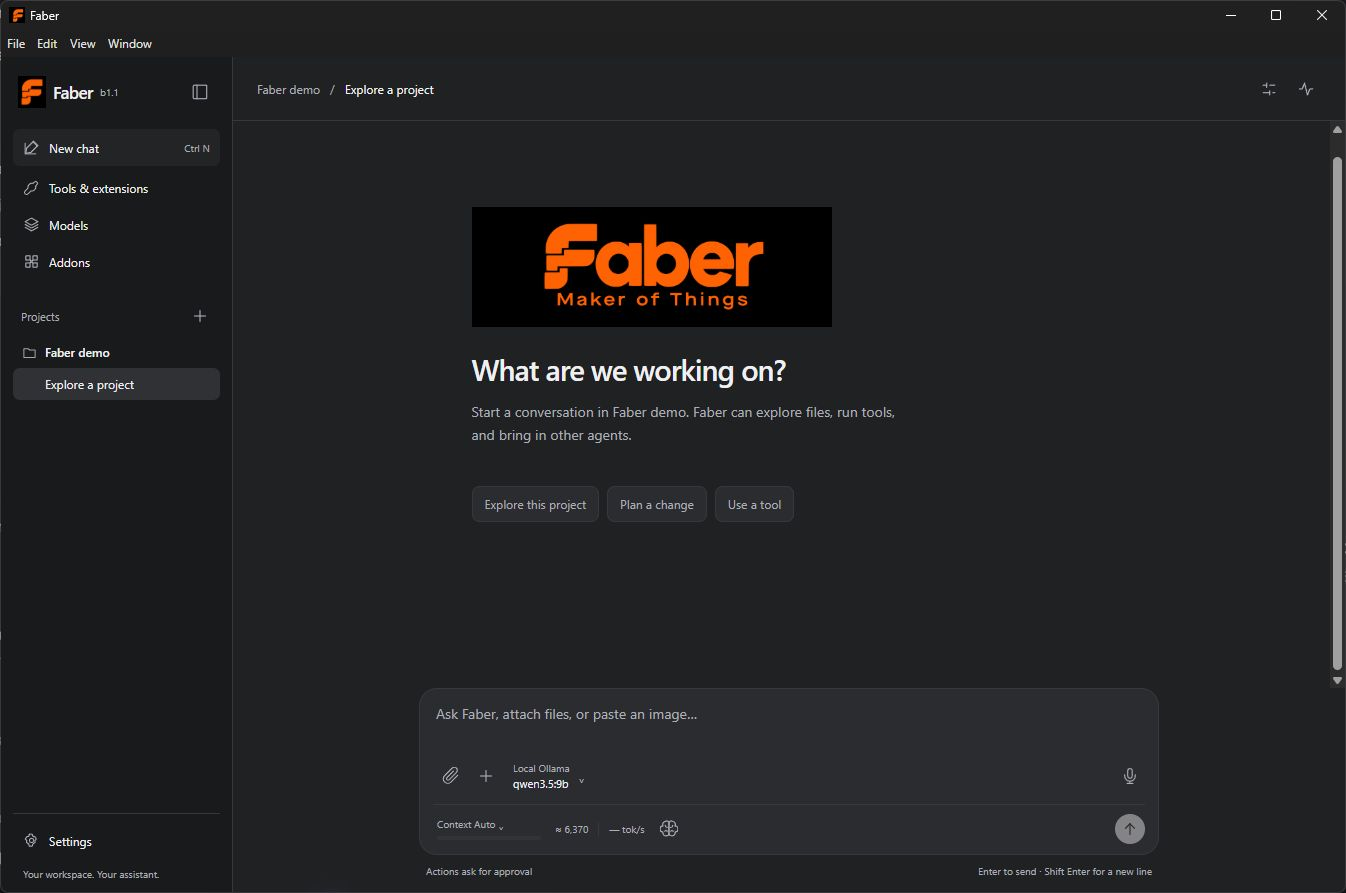
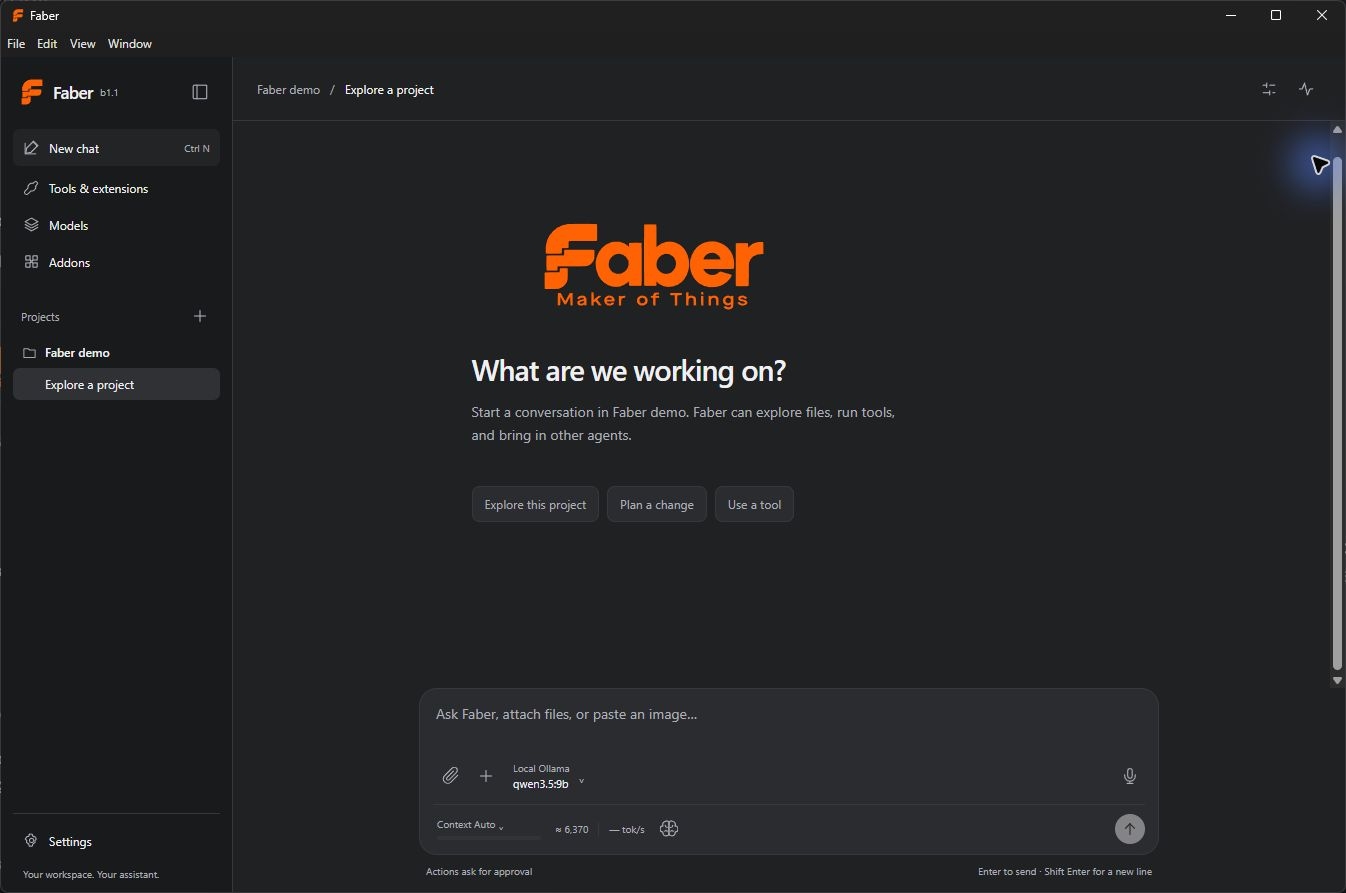
fix: use transparent SVG branding in b1.1

diff --git a/test/fixtures/b1.1-original-branding.css b/test/fixtures/b1.1-original-branding.css
@@ -1,0 +1,7 @@
+.build-label{font-size:10px;color:var(--muted);align-self:center}.brand-row{gap:7px}.brand-mark{font-family:Georgia,serif;font-style:italic;font-weight:700}.addon-imports{display:flex;gap:8px;flex-wrap:wrap;margin:18px 0}#addons-status{overflow-wrap:anywhere}.addon-item{padding:20px 0;border-top:1px solid var(--line)}.addon-title{display:flex;justify-content:space-between;align-items:baseline;gap:15px}.addon-title h3{font-size:15px;margin-bottom:8px}.addon-status{font-size:11px;color:var(--accent);margin-bottom:9px}.addon-details{font-size:12px}.addon-details summary{cursor:pointer;margin:12px 0;color:var(--muted)}.addon-details p{overflow-wrap:anywhere}.addon-empty{padding:26px 0}.addon-item .form-actions{justify-content:flex-start}
+.brand-mark.faber-symbol{width:28px;height:33px;object-fit:contain;border:0;border-radius:0;flex-shrink:0}.faber-wordmark{display:block;height:auto;max-width:100%;object-fit:contain;background:#000}.welcome-wordmark{width:360px;margin:0 0 24px}.about-wordmark{width:520px;margin:0 0 22px}
+.addon-notices:not(:empty){border-left:2px solid var(--accent);padding:1px 12px;margin:16px 0}.addon-notices p:last-child{margin-bottom:0}.addon-title h3{min-width:0;overflow-wrap:anywhere}.addon-item p,.addon-notices p{overflow-wrap:anywhere}
+.hardware-controls{margin-top:16px;border-top:1px solid var(--line);padding-top:13px}.hardware-controls>summary,.hardware-cpus>summary{cursor:pointer;font-size:12px;color:var(--muted)}.hardware-controls>.hint{margin-top:12px}.hardware-form{border:0;padding:0;display:grid;gap:14px;margin:12px 0}.hardware-form:disabled{opacity:.6}.hardware-devices h4{font-size:11px;color:var(--muted);font-weight:500;margin:0 0 9px}.hardware-check{display:flex;align-items:flex-start;gap:8px;font-size:11px;line-height:1.7;margin:6px 0}.hardware-check input{accent-color:var(--accent);margin-top:4px;flex:none}.hardware-cpu-grid{display:grid;grid-template-columns:repeat(auto-fill,minmax(85px,1fr));gap:2px 10px;max-height:150px;overflow:auto}.hardware-observed{border-top:1px solid var(--line);padding-top:13px;margin-top:14px;font-size:11px}.hardware-observed p{white-space:pre-wrap;overflow-wrap:anywhere}
+.model-columns{display:block;overflow:auto}.model-results{display:grid;grid-template-columns:repeat(auto-fill,minmax(235px,1fr));gap:14px;padding:18px 0;overflow:visible;max-height:none}.model-result{display:flex;flex-direction:column;align-items:stretch;justify-content:flex-start;min-height:195px;border:1px solid var(--line);border-radius:12px;background:var(--surface);padding:18px;text-align:left;gap:0}.model-result .model-repo{font-size:14px;margin-bottom:8px}.model-result .model-metrics{margin-top:auto;padding-top:12px}.model-result .model-tags{margin-bottom:5px}.model-result[aria-pressed=true]{border-color:var(--accent);box-shadow:none}.model-columns.has-detail{display:grid;grid-template-columns:minmax(235px,.8fr) minmax(360px,1.2fr);overflow:hidden}.model-columns.has-detail .model-results{display:flex;flex-direction:column;overflow:auto;padding:18px 18px 18px 0}.model-columns.has-detail .model-result{flex-shrink:0;min-height:180px}.model-columns.has-detail .model-detail{padding-top:15px}.model-card-grid{display:grid;grid-template-columns:repeat(auto-fill,minmax(240px,1fr));gap:14px;margin:18px 0 25px}.library-model-card,.library-model-card.model-job{border:1px solid var(--line);border-radius:12px;padding:16px;background:var(--surface);min-width:0;display:flex;flex-direction:column}.model-card-main{display:flex;flex-direction:column;align-items:stretch;text-align:left;gap:8px;flex:1;padding:0 0 10px;min-width:0}.model-card-main[aria-pressed=true] .model-repo{color:var(--accent)}.model-card-main .model-tags{margin:0;white-space:normal;overflow-wrap:anywhere}.model-card-size{font-size:13px;color:var(--text);line-height:1.5}.model-card-reason{margin:8px 0 0;overflow-wrap:anywhere}.model-card-reason:empty{display:none}.model-card-transfer{flex-wrap:wrap;gap:6px;font-size:10px}.library-model-card .form-actions{justify-content:flex-start;margin-top:14px}.library-model-card .button{font-size:11px;padding:7px 10px}.disk-model-detail{padding:22px;border:1px solid var(--line);border-radius:12px;margin-bottom:22px}.disk-model-detail .model-metrics{margin:18px 0}.disk-library .model-library-heading{align-items:flex-start}.disk-library .model-library-heading p{overflow-wrap:anywhere}.model-transfer-history{border-top:1px solid var(--line);margin-top:20px;padding-top:16px}.model-transfer-history>summary{cursor:pointer;font-size:12px;color:var(--muted);margin-bottom:14px}.library-empty{grid-column:1/-1;padding:22px 0}
+@media(max-width:850px){.model-columns.has-detail{grid-template-columns:minmax(200px,.75fr) minmax(300px,1.25fr)}.model-card-grid{grid-template-columns:repeat(auto-fill,minmax(210px,1fr))}}
+@media(max-width:700px){.model-columns.has-detail{display:block;overflow:visible}.model-columns.has-detail .model-results{display:grid;max-height:260px;padding-right:0;overflow:auto}.model-result{min-height:175px}.model-columns.has-detail .model-detail{padding-left:0}.model-card-grid{grid-template-columns:1fr}.disk-model-detail{padding:16px}.disk-library .model-library-heading{flex-direction:column;gap:9px}}

diff --git a/renderer/faber.css b/renderer/faber.css
@@ -1,5 +1,5 @@
 .build-label{font-size:10px;color:var(--muted);align-self:center}.brand-row{gap:7px}.brand-mark{font-family:Georgia,serif;font-style:italic;font-weight:700}.addon-imports{display:flex;gap:8px;flex-wrap:wrap;margin:18px 0}#addons-status{overflow-wrap:anywhere}.addon-item{padding:20px 0;border-top:1px solid var(--line)}.addon-title{display:flex;justify-content:space-between;align-items:baseline;gap:15px}.addon-title h3{font-size:15px;margin-bottom:8px}.addon-status{font-size:11px;color:var(--accent);margin-bottom:9px}.addon-details{font-size:12px}.addon-details summary{cursor:pointer;margin:12px 0;color:var(--muted)}.addon-details p{overflow-wrap:anywhere}.addon-empty{padding:26px 0}.addon-item .form-actions{justify-content:flex-start}
-.brand-mark.faber-symbol{width:28px;height:33px;object-fit:contain;border:0;border-radius:0;flex-shrink:0}.faber-wordmark{display:block;height:auto;max-width:100%;object-fit:contain;background:#000}.welcome-wordmark{width:360px;margin:0 0 24px}.about-wordmark{width:520px;margin:0 0 22px}
+.brand-mark.faber-symbol{width:28px;height:33px;object-fit:contain;border:0;border-radius:0;flex-shrink:0}.faber-wordmark{display:block;height:auto;max-width:100%;object-fit:contain}.welcome-wordmark{width:360px;margin:0 0 24px}.about-wordmark{width:520px;margin:0 0 22px}
 .addon-notices:not(:empty){border-left:2px solid var(--accent);padding:1px 12px;margin:16px 0}.addon-notices p:last-child{margin-bottom:0}.addon-title h3{min-width:0;overflow-wrap:anywhere}.addon-item p,.addon-notices p{overflow-wrap:anywhere}
 .hardware-controls{margin-top:16px;border-top:1px solid var(--line);padding-top:13px}.hardware-controls>summary,.hardware-cpus>summary{cursor:pointer;font-size:12px;color:var(--muted)}.hardware-controls>.hint{margin-top:12px}.hardware-form{border:0;padding:0;display:grid;gap:14px;margin:12px 0}.hardware-form:disabled{opacity:.6}.hardware-devices h4{font-size:11px;color:var(--muted);font-weight:500;margin:0 0 9px}.hardware-check{display:flex;align-items:flex-start;gap:8px;font-size:11px;line-height:1.7;margin:6px 0}.hardware-check input{accent-color:var(--accent);margin-top:4px;flex:none}.hardware-cpu-grid{display:grid;grid-template-columns:repeat(auto-fill,minmax(85px,1fr));gap:2px 10px;max-height:150px;overflow:auto}.hardware-observed{border-top:1px solid var(--line);padding-top:13px;margin-top:14px;font-size:11px}.hardware-observed p{white-space:pre-wrap;overflow-wrap:anywhere}
 .model-columns{display:block;overflow:auto}.model-results{display:grid;grid-template-columns:repeat(auto-fill,minmax(235px,1fr));gap:14px;padding:18px 0;overflow:visible;max-height:none}.model-result{display:flex;flex-direction:column;align-items:stretch;justify-content:flex-start;min-height:195px;border:1px solid var(--line);border-radius:12px;background:var(--surface);padding:18px;text-align:left;gap:0}.model-result .model-repo{font-size:14px;margin-bottom:8px}.model-result .model-metrics{margin-top:auto;padding-top:12px}.model-result .model-tags{margin-bottom:5px}.model-result[aria-pressed=true]{border-color:var(--accent);box-shadow:none}.model-columns.has-detail{display:grid;grid-template-columns:minmax(235px,.8fr) minmax(360px,1.2fr);overflow:hidden}.model-columns.has-detail .model-results{display:flex;flex-direction:column;overflow:auto;padding:18px 18px 18px 0}.model-columns.has-detail .model-result{flex-shrink:0;min-height:180px}.model-columns.has-detail .model-detail{padding-top:15px}.model-card-grid{display:grid;grid-template-columns:repeat(auto-fill,minmax(240px,1fr));gap:14px;margin:18px 0 25px}.library-model-card,.library-model-card.model-job{border:1px solid var(--line);border-radius:12px;padding:16px;background:var(--surface);min-width:0;display:flex;flex-direction:column}.model-card-main{display:flex;flex-direction:column;align-items:stretch;text-align:left;gap:8px;flex:1;padding:0 0 10px;min-width:0}.model-card-main[aria-pressed=true] .model-repo{color:var(--accent)}.model-card-main .model-tags{margin:0;white-space:normal;overflow-wrap:anywhere}.model-card-size{font-size:13px;color:var(--text);line-height:1.5}.model-card-reason{margin:8px 0 0;overflow-wrap:anywhere}.model-card-reason:empty{display:none}.model-card-transfer{flex-wrap:wrap;gap:6px;font-size:10px}.library-model-card .form-actions{justify-content:flex-start;margin-top:14px}.library-model-card .button{font-size:11px;padding:7px 10px}.disk-model-detail{padding:22px;border:1px solid var(--line);border-radius:12px;margin-bottom:22px}.disk-model-detail .model-metrics{margin:18px 0}.disk-library .model-library-heading{align-items:flex-start}.disk-library .model-library-heading p{overflow-wrap:anywhere}.model-transfer-history{border-top:1px solid var(--line);margin-top:20px;padding-top:16px}.model-transfer-history>summary{cursor:pointer;font-size:12px;color:var(--muted);margin-bottom:14px}.library-empty{grid-column:1/-1;padding:22px 0}

diff --git a/renderer/index.html b/renderer/index.html
@@ -16,7 +16,7 @@
 <body>
   <div class="shell">
     <aside class="sidebar" id="sidebar" aria-label="Projects and chats">
-      <div class="brand-row"><img class="brand-mark faber-symbol" src="assets/faber-symbol.png" alt=""><span class="brand">Faber</span><span class="build-label">b1.1</span><button id="collapse-sidebar" class="icon-button" title="Hide sidebar" aria-label="Hide sidebar" data-icon="panel"></button></div>
+      <div class="brand-row"><img class="brand-mark faber-symbol" src="assets/faber-symbol.svg" alt=""><span class="brand">Faber</span><span class="build-label">b1.1</span><button id="collapse-sidebar" class="icon-button" title="Hide sidebar" aria-label="Hide sidebar" data-icon="panel"></button></div>
       <button id="new-chat" class="nav-button new-chat" data-icon="compose">New chat <kbd>Ctrl N</kbd></button>
       <button id="open-tools" class="nav-button" data-icon="tools">Tools & extensions</button>
       <button id="open-models" class="nav-button" data-icon="models">Models</button>

diff --git a/INSTALLING.md b/INSTALLING.md
@@ -41,8 +41,11 @@ source-launched Faber and installed Faber concurrently against the same profile.
 Each new internal application version seeds its own editable workbench. Older
 workbenches and approved core modifications are retained, but are not automatically
 merged into a new base. Addons remain in the shared profile. Reinstalling the same
-version preserves its existing workbench; release maintainers must increment
-the internal version whenever shipped content changes.
+version preserves its existing workbench. The b1.1 transparent-logo rebuild is a
+scoped exception: it refreshes only unchanged original branding files, adds the
+SVG assets, and backs up replaced files in `.faber-branding-backup` inside the
+workbench. Customized files stay intact; `.faber-branding-refresh.json` records
+which files were preserved. Other content changes require a new internal version.
 
 Uninstall removes application files and shortcuts; it retains profile, model and
 workbench data. Addon removal/reset is described in [ADDONS.md](ADDONS.md).
@@ -71,6 +74,8 @@ npm ci
 npm exec -- install-electron
 npm run prepare:runtime
 node scripts/prepare-lightpanda.mjs
+& .\node_modules\.bin\electron.cmd build/render-logos.cjs
+powershell -NoProfile -File build/make-icon.ps1
 npm test
 npm run build:installer
 ```
@@ -81,6 +86,10 @@ Preparation and packaging reject differing or extra binaries. The runtime is
 not downloaded implicitly. Maintainers must review compatible binaries and
 licenses before deliberately recording a new runtime lock. Generated dependencies,
 weights, local data, `.runtime` and `release` stay outside Git.
+
+The supplied SVGs in `renderer/assets/` are the logo masters. Rendering them
+regenerates the transparent PNG compatibility assets; the icon script then
+builds the Windows ICO with the same transparency and subtle shadow.
 
 Lightpanda preparation retrieves the pinned upstream Linux binary, matching
 source, minimal Linux root filesystem and certificate bundle identified in

diff --git a/VERIFICATION.md b/VERIFICATION.md
@@ -7,6 +7,25 @@ history and the local release archive.
 
 ## b1.1 — November 2, 2026
 
+### Transparent-logo rebuild
+
+The user-approved SVG originals now supply the UI, transparent PNG compatibility
+assets and seven-size Windows icon. Only the black background rectangles were
+removed; the orange paths retain their original geometry and use a subtle shadow.
+Application and installer versions remain `1.1.0-beta.1` / `1.1.0.1`.
+
+The rebuilt source suite passed **228 checks with one optional native-input
+fixture skipped (229 total)**, and the baseline Electron smoke passed. SVG
+rasterization verified transparent corners. Same-version refresh checks covered
+original-file backups, customized-file preservation, repeated startup, concurrent
+edits and linked directories. An isolated copy of the previous b1.1 workbench
+refreshed all eight branding files while retaining its core source. Installer
+build and packaged verification results are recorded separately in the local
+`release/` artifact reports. The installed user session is not modified by these
+checks.
+
+### Initial b1.1 delivery
+
 Branch `codex/b1.1-chat-controls` starts from b1 source
 `e28b28961ec824fd08010cd8de56a0a179648aaf`. Implementation includes composer
 context controls/TPS/thinking, sidebar lifecycle menus, inline activity,

diff --git a/README.md b/README.md
@@ -1,6 +1,6 @@
 # Faber b1.1
 
-<img src="renderer/assets/faber-wordmark.png" alt="Faber — Maker of Things" width="440">
+<img src="renderer/assets/faber-wordmark.svg" alt="Faber — Maker of Things" width="440">
 
 A Windows desktop workspace for local and API-connected AI agents. Bill's
 October 31, 2026 direction is a fresh harness with a Codex-style interface,
